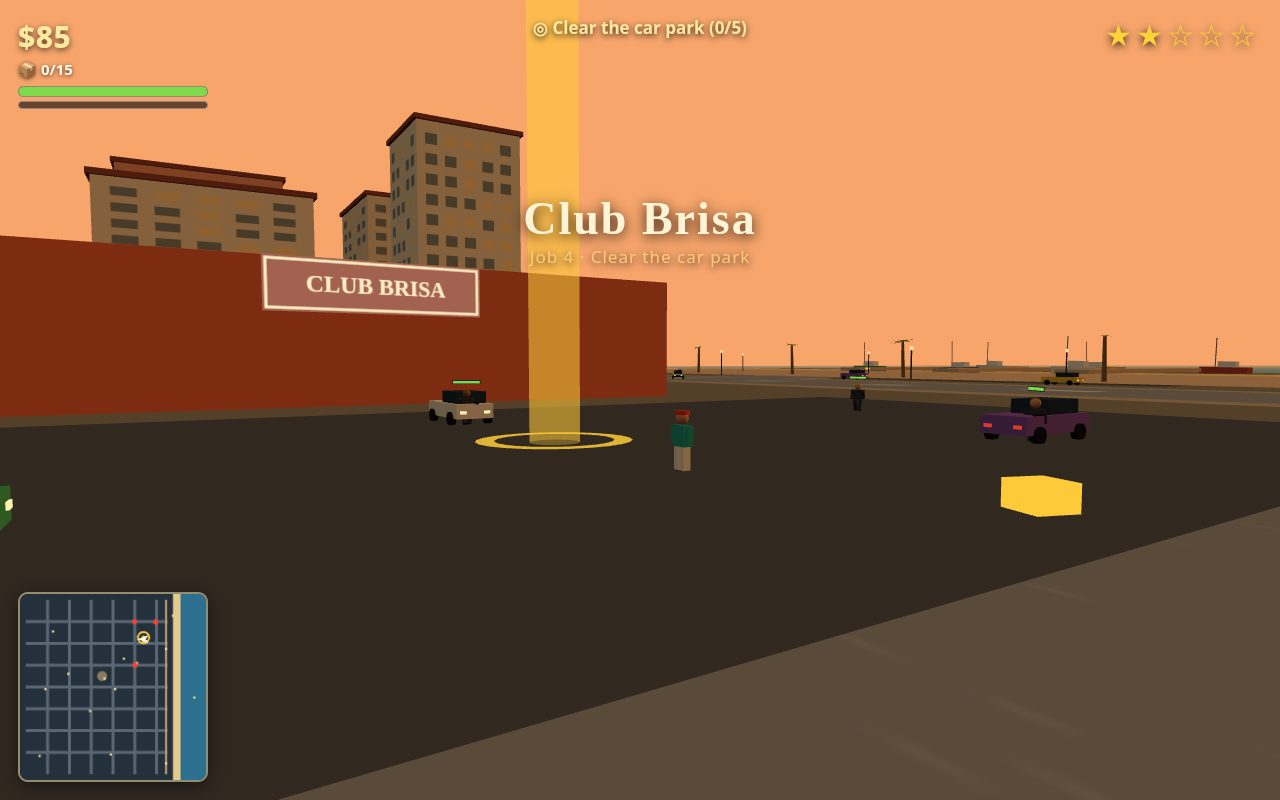
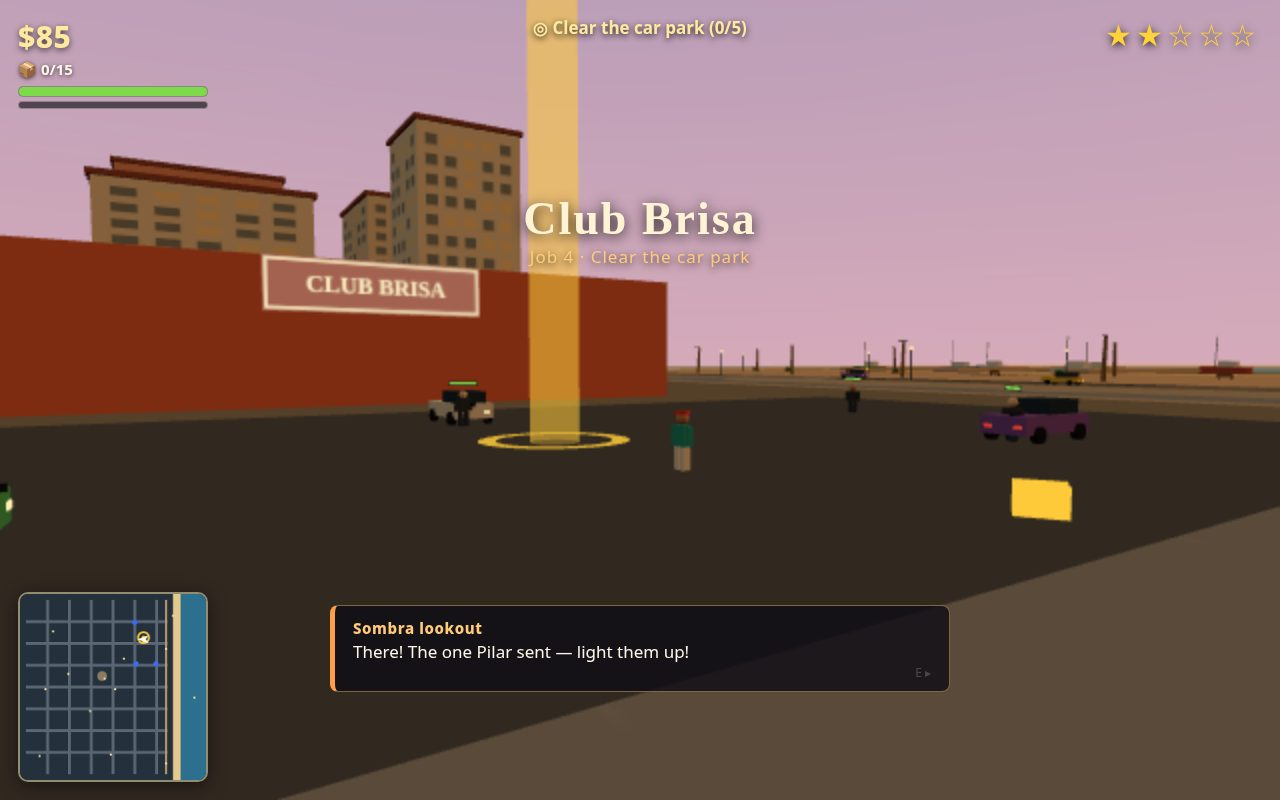
Golden Hour — Costa Vera: gradient sky, denser streets, beach life, new screenshots (round 8 rebuild)

diff --git a/game/src/city.js b/game/src/city.js
@@ -349,6 +349,8 @@ function buildPalmsAndLamps(scene, rng) {
   });
   const palmSpots = [];
   for (let z = -456; z <= 456; z += 38) palmSpots.push([284 + (rng() - 0.5) * 8, z]);
+  // A second, sea-side row of palms framing the promenade and the beach.
+  for (let z = -438; z <= 456; z += 57) palmSpots.push([330 + (rng() - 0.5) * 6, z + (rng() - 0.5) * 10]);
   for (let i = 0; i < 16; i++) palmSpots.push([-440 + rng() * 660, -440 + rng() * 880]);
   for (const [x, z] of palmSpots) {
     if (Math.abs(x - Math.round(x / 120) * 120) < 16) continue; // keep off the avenues
@@ -379,6 +381,79 @@ function buildPalmsAndLamps(scene, rng) {
       bulb.position.set(x, 5.8, z);
       scene.add(bulb);
     }
+  }
+}
+
+const UMBRELLA_COLORS = [0xe84a5f, 0xf2b33c, 0x2e9e8f, 0x3a6fb7, 0xe86ab0, 0xf2782e, 0x7a4fa3, 0xe8e2d2];
+const TOWEL_COLORS = [0xe84a5f, 0x2e9e8f, 0xf2b33c, 0x3a6fb7, 0xf5efdf, 0xe86ab0];
+
+// Beach life on the sand east of the boardwalk: seeded colourful umbrellas
+// (a pole and a cone canopy, no collider — you can stroll between them) with
+// a towel laid out under most of them. Placement is all from the seeded rng.
+function buildBeachLife(scene, rng) {
+  const poleMat = new THREE.MeshLambertMaterial({ color: 0xd8d3c8 });
+  for (let i = 0; i < 46; i++) {
+    const x = 342 + rng() * 24;
+    const z = -452 + rng() * 904;
+    if (Math.abs(z - CITY.pierZ) < 24) continue; // keep the pier root clear
+    if (z > -436 && z < -300 && x > 330) continue; // keep the marina docks clear
+    const color = pick(rng, UMBRELLA_COLORS);
+    const pole = new THREE.Mesh(new THREE.CylinderGeometry(0.07, 0.07, 2.3, 5), poleMat);
+    pole.position.set(x, 1.15, z);
+    pole.rotation.z = (rng() - 0.5) * 0.16;
+    scene.add(pole);
+    const canopy = new THREE.Mesh(
+      new THREE.ConeGeometry(2.35, 0.7, 9),
+      new THREE.MeshLambertMaterial({ color }),
+    );
+    canopy.position.set(x + pole.rotation.z * -2.2, 2.35, z);
+    scene.add(canopy);
+    if (rng() < 0.78) {
+      const towel = new THREE.Mesh(
+        new THREE.BoxGeometry(1.0, 0.06, 2.0),
+        new THREE.MeshLambertMaterial({ color: pick(rng, TOWEL_COLORS) }),
+      );
+      towel.position.set(x + 1.4 + rng() * 1.2, 0.09, z + (rng() - 0.5) * 2.4);
+      towel.rotation.y = rng() * Math.PI;
+      scene.add(towel);
+    }
+  }
+}
+
+// Boardwalk furniture: benches and planters alternating along the promenade,
+// plus a second row of palms on the sea side of the walk. Benches and
+// planters get small colliders; the palms reuse the palm collider size.
+function buildBoardwalkFurniture(scene, rng) {
+  const benchWood = new THREE.MeshLambertMaterial({ color: 0x8a5f36 });
+  const benchIron = new THREE.MeshLambertMaterial({ color: 0x33383f });
+  const planterMat = new THREE.MeshLambertMaterial({ color: 0xb0623f });
+  const shrubMat = new THREE.MeshLambertMaterial({ color: 0x3f7a34 });
+  for (let z = -430; z <= 430; z += 43) {
+    const jz = z + (rng() - 0.5) * 6;
+    if (Math.abs(jz - CITY.pierZ) < 18) continue; // pier entrance stays open
+    // Bench facing the sea.
+    const bench = new THREE.Group();
+    const seat = new THREE.Mesh(new THREE.BoxGeometry(0.65, 0.14, 2.4), benchWood);
+    seat.position.y = 0.58;
+    bench.add(seat);
+    const back = new THREE.Mesh(new THREE.BoxGeometry(0.12, 0.7, 2.4), benchWood);
+    back.position.set(-0.3, 1.0, 0);
+    bench.add(back);
+    for (const dz of [-1.0, 1.0]) {
+      const leg = new THREE.Mesh(new THREE.BoxGeometry(0.55, 0.55, 0.12), benchIron);
+      leg.position.set(0, 0.28, dz);
+      bench.add(leg);
+    }
+    bench.position.set(318, 0, jz);
+    scene.add(bench);
+    colliders.push({ minX: 317.6, maxX: 318.4, minZ: jz - 1.2, maxZ: jz + 1.2 });
+    // Planter with a shrub, a few metres along from the bench.
+    const pz = jz + 14 + rng() * 6;
+    addBox(scene, 0.9, 0.62, 2.0, 319, 0.31, pz, planterMat, true);
+    const shrub = new THREE.Mesh(new THREE.SphereGeometry(0.85, 7, 6), shrubMat);
+    shrub.position.set(319, 1.0, pz);
+    shrub.scale.y = 0.75;
+    scene.add(shrub);
   }
 }
 
@@ -414,6 +489,8 @@ export function buildCity(scene) {
   buildSpecials(scene);
   buildPierAndMarina(scene);
   buildPalmsAndLamps(scene, rng);
+  buildBeachLife(scene, rng);
+  buildBoardwalkFurniture(scene, rng);
   buildPlaza(scene);
   return { colliders };
 }

diff --git a/game/src/main.js b/game/src/main.js
@@ -34,8 +34,35 @@ renderer.domElement.className = 'game-view';
 document.body.appendChild(renderer.domElement);
 
 const scene = new THREE.Scene();
-scene.background = new THREE.Color(0xf7a56b);
-scene.fog = new THREE.Fog(0xf2a56b, 210, 820);
+scene.background = new THREE.Color(0xe8906a);
+scene.fog = new THREE.Fog(0xeaa06e, 210, 820);
+
+// Gradient sky dome: a big inside-out sphere painted with a vertical canvas
+// gradient — deep dusty blue-violet up top, peach through the middle and a
+// warm glow at the horizon, so the golden hour has depth instead of one
+// flat orange wash. Its material ignores fog so the dome stays the backdrop.
+function skyTexture() {
+  const c = document.createElement('canvas');
+  c.width = 16;
+  c.height = 512;
+  const ctx = c.getContext('2d');
+  const grad = ctx.createLinearGradient(0, 0, 0, 512);
+  grad.addColorStop(0.0, '#2e2a55');
+  grad.addColorStop(0.28, '#5c4a78');
+  grad.addColorStop(0.52, '#b06a7d');
+  grad.addColorStop(0.72, '#e88a5f');
+  grad.addColorStop(0.88, '#f7a56b');
+  grad.addColorStop(1.0, '#ffd9a0');
+  ctx.fillStyle = grad;
+  ctx.fillRect(0, 0, 16, 512);
+  return new THREE.CanvasTexture(c);
+}
+const skyDome = new THREE.Mesh(
+  new THREE.SphereGeometry(1750, 24, 16),
+  new THREE.MeshBasicMaterial({ map: skyTexture(), side: THREE.BackSide, fog: false, depthWrite: false }),
+);
+skyDome.renderOrder = -10;
+scene.add(skyDome);
 
 const camera = new THREE.PerspectiveCamera(58, window.innerWidth / window.innerHeight, 0.1, 2400);
 camera.position.set(240, 60, 300);
@@ -131,8 +158,8 @@ G.hasSaveFile = () => hasSave();
 buildCity(scene);
 G.player = createPlayer(scene);
 G.pilar = spawnPilar(scene);
-G.peds = spawnPedestrians(scene, 26);
-G.vehicles = [...spawnParkedVehicles(scene), ...spawnTraffic(scene, 7)];
+G.peds = spawnPedestrians(scene, 44);
+G.vehicles = [...spawnParkedVehicles(scene), ...spawnTraffic(scene, 12)];
 G.police = createPolice(G);
 G.radio = createRadio(G);
 initCombat(G);
@@ -643,14 +670,14 @@ window.GH = {
     if (name === 'cover') {
       // Hero shot: the Vendaval on the coast road, driver beside it, the city
       // towers up the shore to the left and the pier and sea to the right.
-      const car = makeVehicle('sports', 0xd94f30, 284, 152, Math.PI, 'parked');
+      const car = makeVehicle('sports', 0xd94f30, 270, 150, Math.PI, 'parked');
       G.scene.add(car.group);
       G.vehicles.push(car);
-      teleportPlayer(280.5, 146);
+      teleportPlayer(266.5, 144);
       G.player.heading = Math.PI;
       G.player.group.rotation.y = G.player.heading;
       G.cameraYaw = G.player.heading;
-      G.camOverride = { x: 274, y: 2.7, z: 164, lx: 290, ly: 1.8, lz: 112 };
+      G.camOverride = { x: 262.5, y: 2.4, z: 158.5, lx: 276, ly: 1.5, lz: 137 };
     } else if (name === 'combat') {
       G.job.nextIndex = 3;
       talkToPilar(G);
